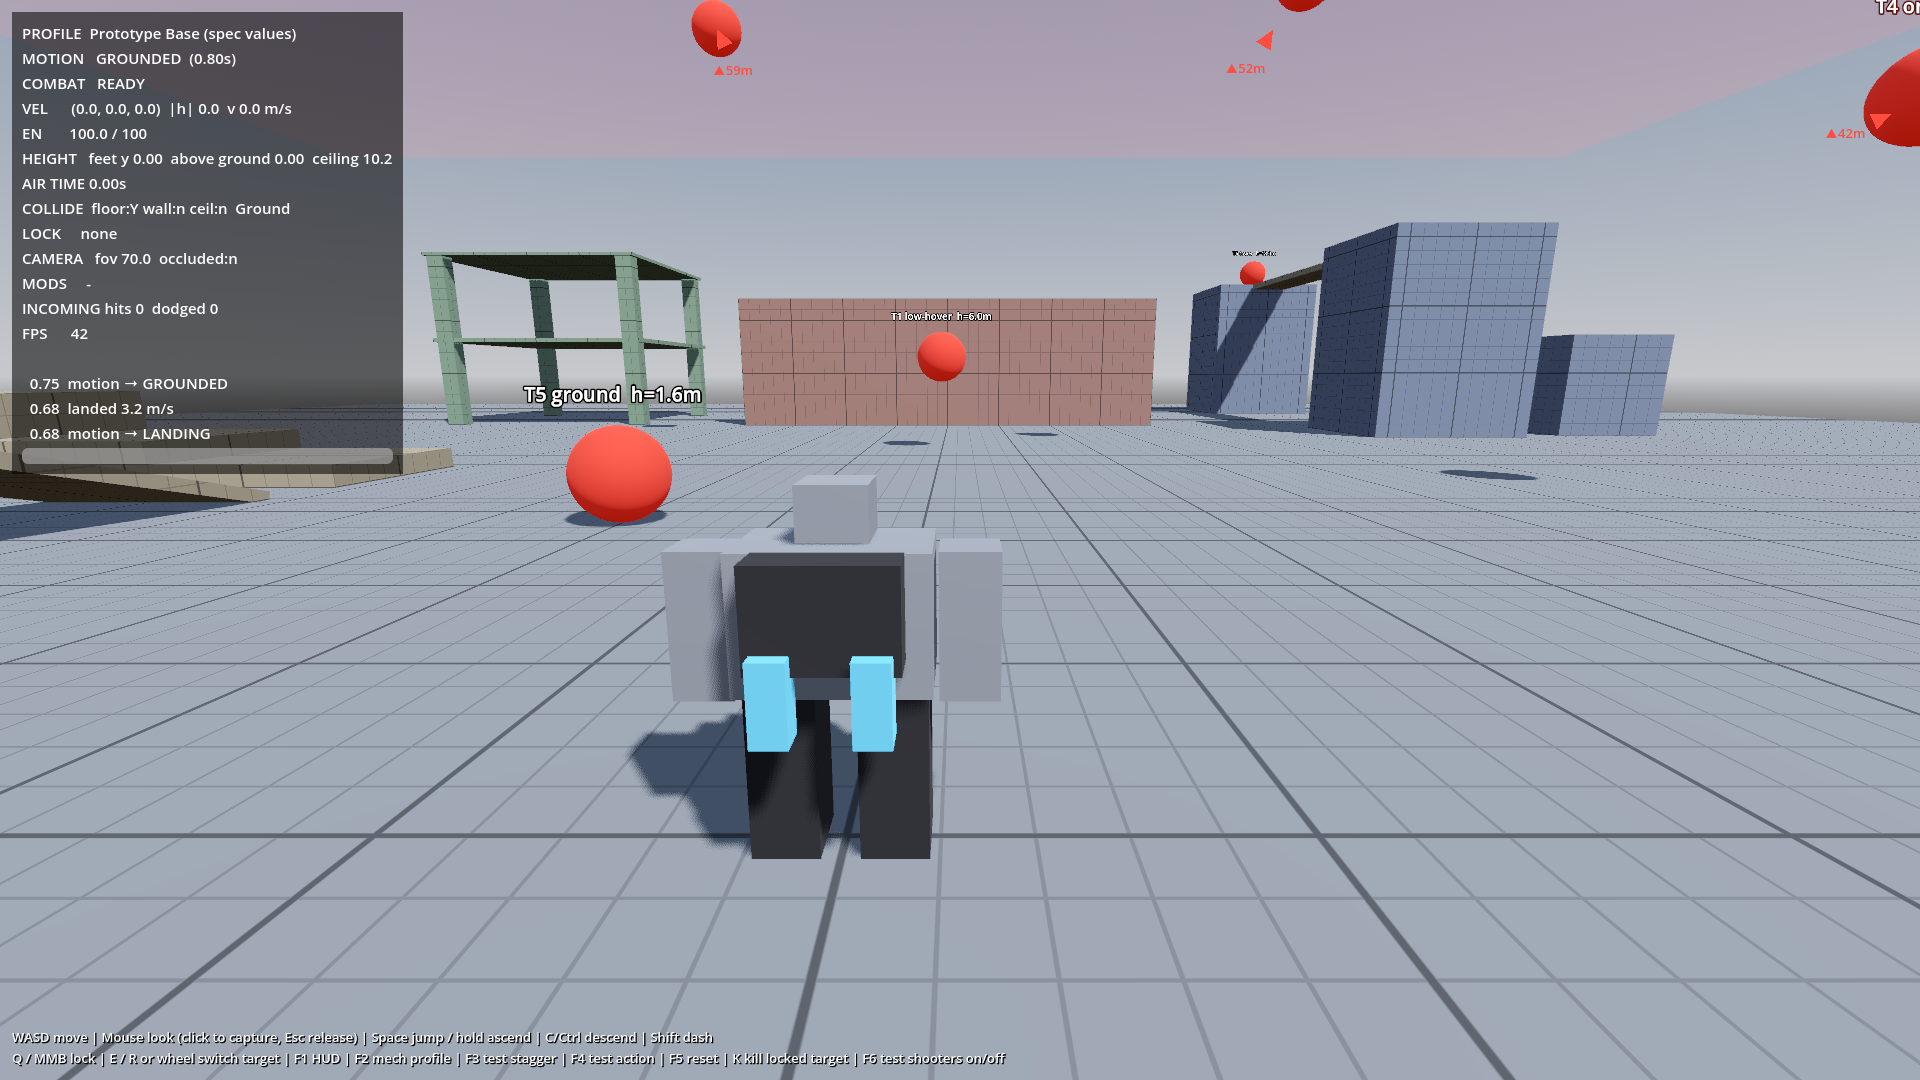
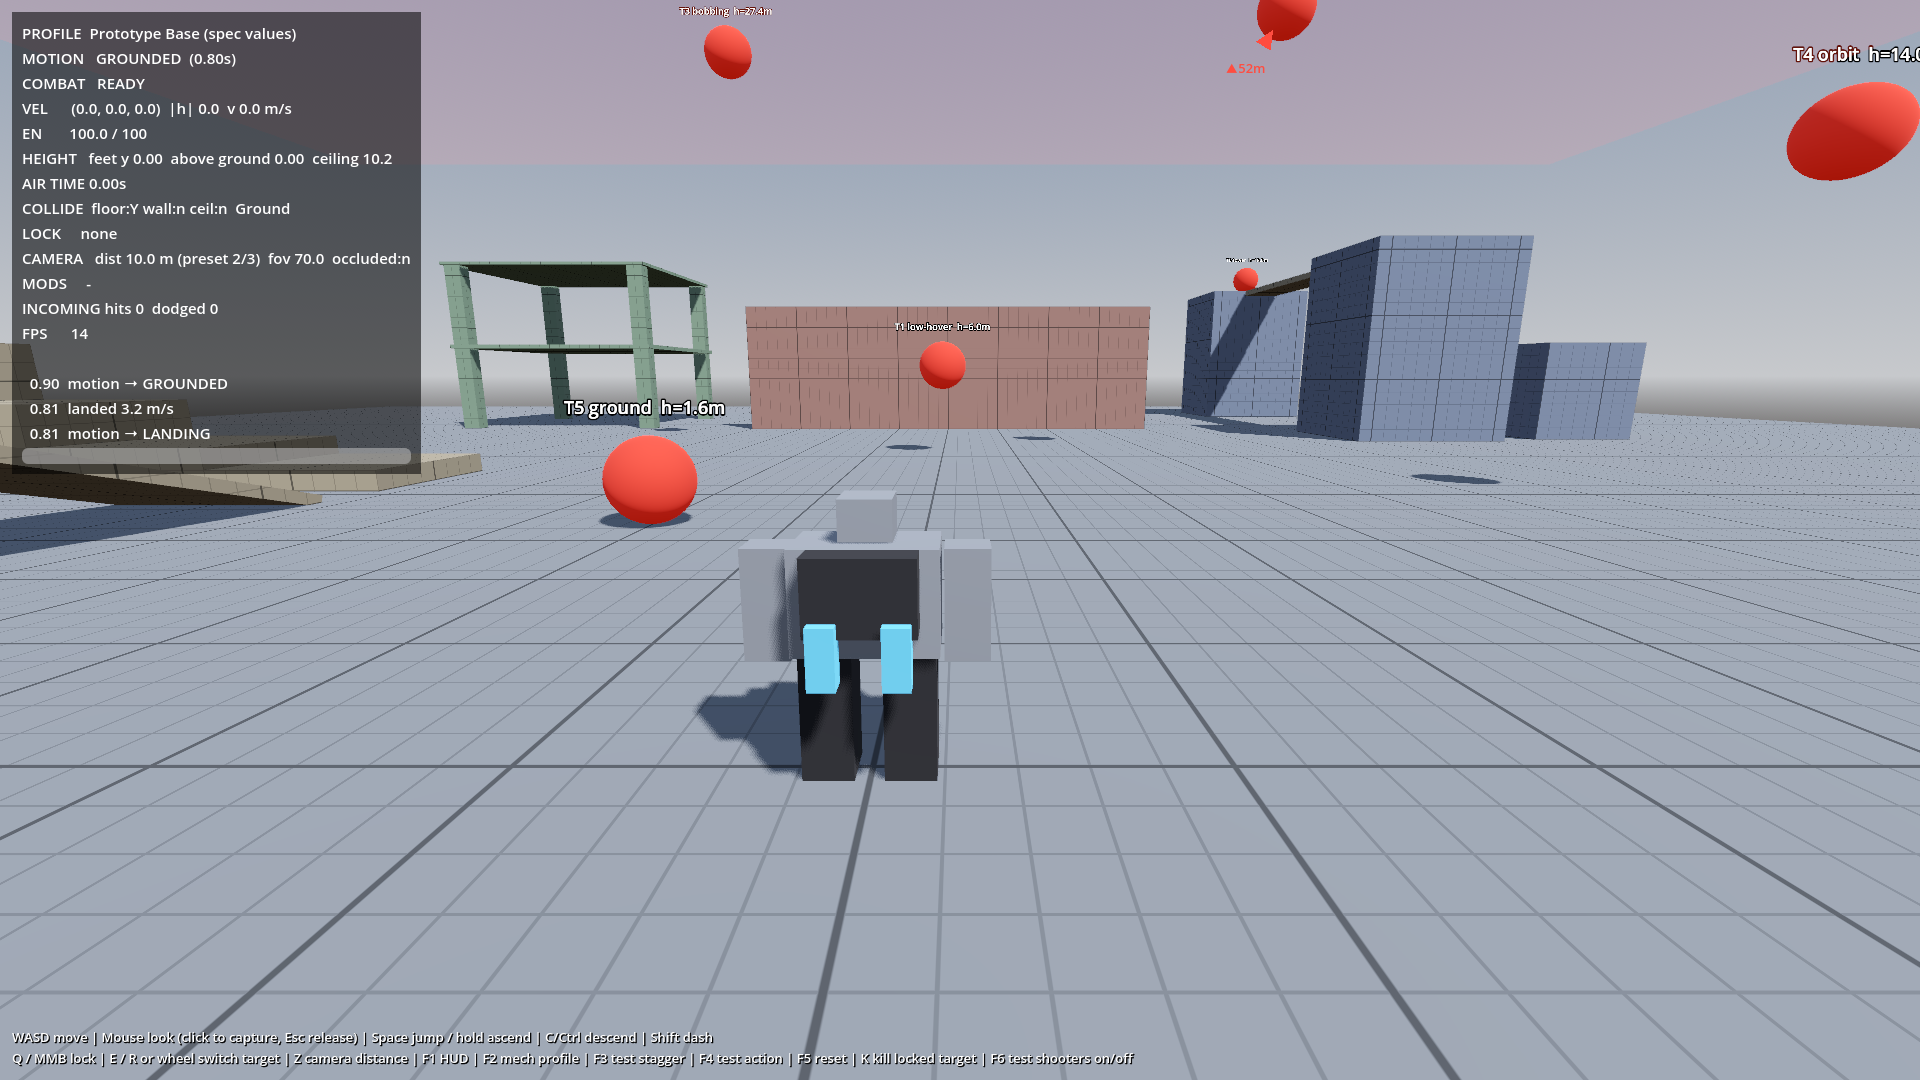
Camera: farther default distance with near/mid/far presets (Z key)
- distance presets 7.5 / 10 / 13 m, default 10 m, eased transitions
- lock orbit pitch max 15 -> 8 deg so the longer arm does not hit the ground
- HUD shows current distance preset; T10 checks preset arm lengths
- docs: controls, parameter table, architecture D-14, test matrix

diff --git a/docs/MOVEMENT_PARAMETERS.md b/docs/MOVEMENT_PARAMETERS.md
@@ -102,7 +102,8 @@
 | 参数 | 值 | 说明 |
 |---|---|---|
 | `base_fov` / `dash_fov` | 70° / 78° | 冲刺时 FOV，按速度插值 |
-| `distance` / `focus_height` / `shoulder_offset` | 7.5 m / 3.2 m / 1.2 m | 跟随距离、注视点高度、越肩偏移 |
+| `distance_presets` / `distance_preset_index` | 7.5 / **10** / 13 m，默认中档 | 跟随距离三档（近 / 中 / 远），按 `Z` 循环切换，以 `distance_change_sharpness` = 5 平滑过渡 |
+| `focus_height` / `shoulder_offset` | 3.2 m / 1.2 m | 注视点高度、越肩偏移 |
 | `follow_sharpness_h` / `follow_sharpness_v` | 22 / 7 (1/s) | 水平 / 垂直跟随锐度；垂直更柔和以平滑起降 |
 | `speed_pullback` | 1.2 m | 冲刺时镜头拉远 |
 | `mouse_sensitivity` | 0.0025 rad/px | 自由视角灵敏度 |
@@ -111,7 +112,7 @@
 | `lock_sharpness` | 5 (1/s) | 锁定跟随平滑 |
 | `lock_aim_weight` | 0.45 | 视线在“玩家→目标”之间的角度插值 |
 | `lock_player_max_angle_deg` | 26° | 玩家胸口始终保持在画面中心该角度内 |
-| `lock_orbit_pitch_min/max_deg` | -35° / 15° | 锁定时镜头位置俯仰（避免仰视高空目标时镜头钻地） |
+| `lock_orbit_pitch_min/max_deg` | -35° / 8° | 锁定时镜头位置俯仰（避免仰视高空目标时镜头钻地） |
 | `lock_height_distance_factor` / `lock_max_extra_distance` | 0.18 m/m / 5 m | 高度差越大镜头越远 |
 | `lock_manual_yaw_deg` / `lock_manual_pitch_deg` | ±25° / ±15° | 锁定时鼠标可做的偏移，0.8 s 后回正 |
 | `collision_radius` | 0.35 m | 遮挡球形扫掠半径 |

diff --git a/docs/ARCHITECTURE.md b/docs/ARCHITECTURE.md
@@ -55,6 +55,7 @@
 - **D-10 遮挡**：从注视点做球形扫掠，遇遮挡立刻拉近，脱离遮挡后平滑拉远。拉近到 2.8 m 以下时尝试备选位置：抬高；锁定时还会尝试左右摆开。镜头臂方向经平滑后再扫掠一次，保证摆动过程中不进入几何体。1.2–3 m 时机体淡出。
 - **D-11 灰盒关卡由代码生成**（`GrayboxBuilder`），玩法场景与测试使用同一布局。它**不是**三张正式地图之一。
 - **D-12 测试弹丸夹具**（`TestProjectile`，F6 开关）只用于 M04 规避验收：直线飞行、每帧射线扫掠，统计命中与规避，**无伤害系统**。预判射击使用迭代求解拦截点。
+- **D-14 镜头距离三档**（7.5 / 10 / 13 m，默认 10 m），按 `Z` 循环切换，平滑过渡。滚轮保留给锁定目标切换，避免冲突。锁定时镜头位置下压上限从 15° 收窄到 8°，避免在 10 m 以上的臂长下贴地触发遮挡拉近。
 - **D-13 输入映射在 autoload 中注册**，而非序列化在 `project.godot` 中，便于阅读和修改。
 
 ## 3. 碰撞层

diff --git a/README.md b/README.md
@@ -23,6 +23,7 @@ Godot 4.7.2 + GDScript。当前阶段：**机动 / 能量 / 镜头原型**，状
 | `Shift` | 冲刺：地面冲刺 18 EN / 空中冲刺 28 EN |
 | `Q` / 鼠标中键 | 锁定 / 解除锁定 |
 | `E` / `R` / 滚轮 | 切换锁定目标（右 / 左） |
+| `Z` | 镜头距离：近 7.5 m / 中 10 m（默认） / 远 13 m 循环切换 |
 | `F1` | 显示 / 隐藏调试面板 |
 | `F2` | 切换机动配置（Base → Seraph → Hellfang → Ark → Oracle） |
 | `F3` | 测试硬直（STAGGER + 击退） |
